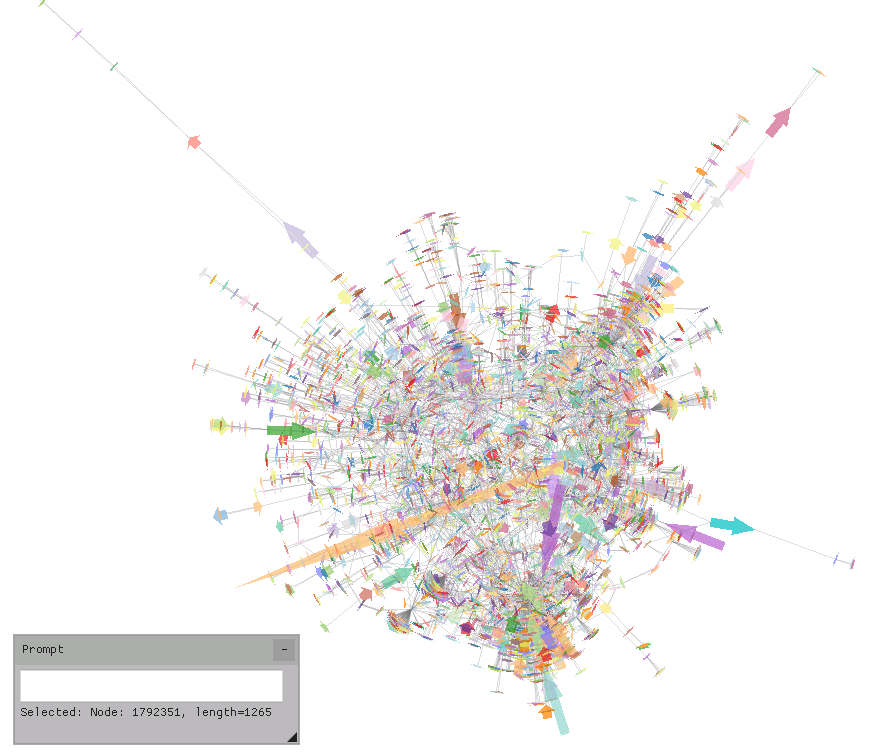
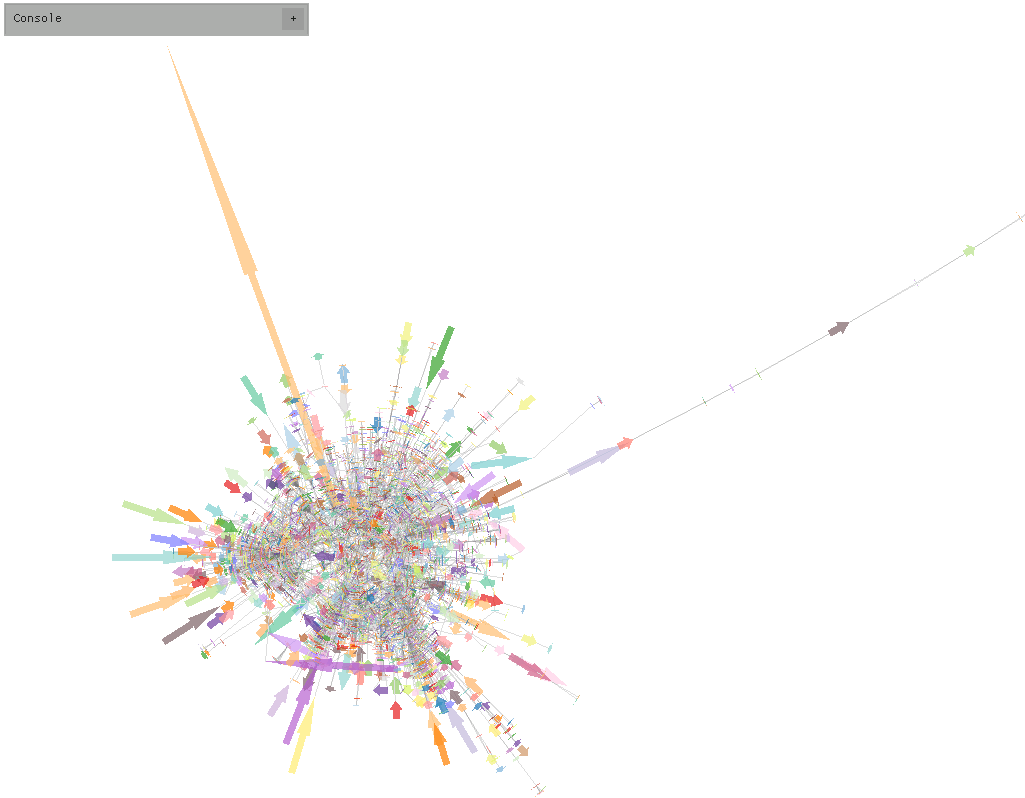
update pics, bump version

diff --git a/README.md b/README.md
@@ -22,8 +22,6 @@ general framework for experimentation with layouting and new visualization techn
 
 <p align="center"><img src=".pics/bobub.png"/></p>
 
-<p align="center"><img src=".pics/zoom.png"/></p>
-
 Named in reference to the Dr. Strangelove character
 in Stanley Kubrick's __Dr. Strangelove or: how I learned to stop
 worrying and love the bomb__ (1964),
@@ -46,6 +44,8 @@ additions. Git tags do **not** mark stable releases.
 Please consider this to be a public beta of sorts
 and feel free to send bug reports, feature requests or comments.
 Thanks!_
+
+<p align="center"><img src=".pics/zoom.png"/></p>
 
 ## Table of contents
 
@@ -224,10 +224,10 @@ Some test examples exist in the `test/` directory.
 For example:
 
 ```bash
-strangepg test/03.232.gfa
+strangepg test/02.chrX:153000002-153400000.gfa
 ```
 
-<p align="center"><img src=".pics/232.png"/></p>
+<p align="center"><img src=".pics/02.png"/></p>
 
 #### Command-line options
 
